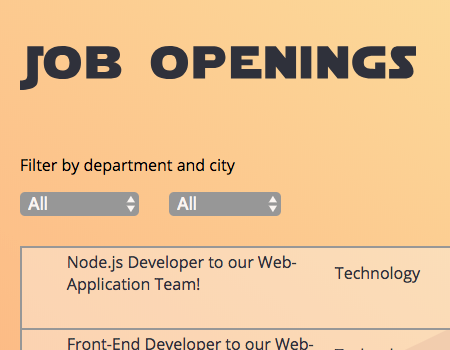
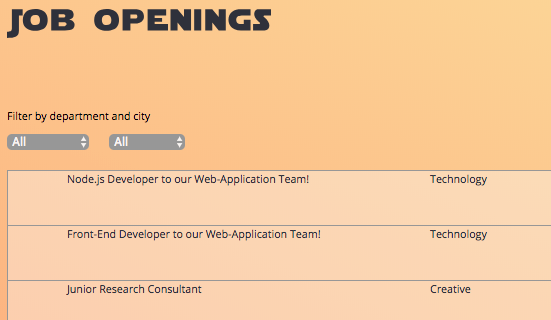
fixed fallback fonts and added content

diff --git a/src/pages/landing-page.js b/src/pages/landing-page.js
@@ -32,7 +32,7 @@ class LandingPage extends React.Component {
 
           <div className="tech-summary">
             <h1>TECH</h1>
-            <p>480 coding hours &bull; 50+ individual tasks &bull; HTML5, CSS, SASS, Flexbox, Javascript, ES6, JSX, React, Node.js,
+            <p>480 coding hours &bull; 50+ individual tasks &bull; HTML5, CSS, SASS, Javascript, ES6, JSX, React, Node.js,
             API:s &bull; 6 sprints with demos together with companies like Volumental, Bonnier, Comprend and Svenska Spel @ Technigo</p>
           </div>
 

diff --git a/src/index.css b/src/index.css
@@ -41,7 +41,7 @@ h1 {
 }
 
 h2 {
-  font-family: BigJohn;
+  font-family: BigJohn, Futura, Arial;
 }
 
 ul {
@@ -63,6 +63,7 @@ button {
 a {
   text-decoration: inherit;
   color: inherit;
+  font-size: 16px;
 }
 
 .landing-page-container {
@@ -98,6 +99,7 @@ a {
   display: flex;
   flex-direction: row;
   flex-wrap: wrap;
+  margin-top: 40px;
 }
 
 .tech-summary p {
@@ -119,9 +121,6 @@ a {
 }
 
 @media (max-width: 1000px) {
-  .landing-page-container {
-    margin: 50px 5%;
-  }
   .intro-container {
     flex-direction: column;
   }

diff --git a/src/components/project/project.css b/src/components/project/project.css
@@ -3,7 +3,7 @@
   flex-direction: column;
   width: calc(50% - 20px);
   margin-bottom: 50px;
-  padding: 10px;
+  padding: 0 10px 10px;
   border: 1px solid #f7cfd9;
 }
 
